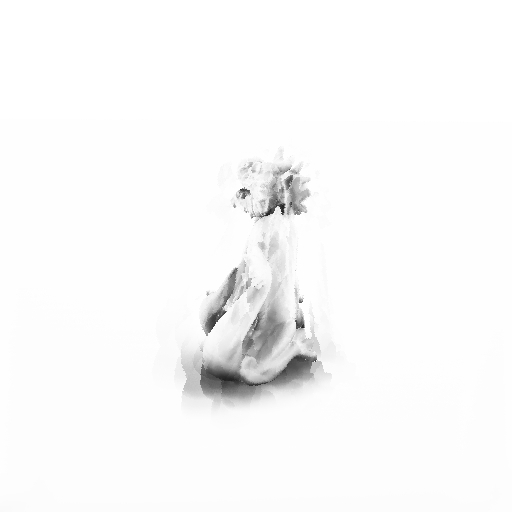
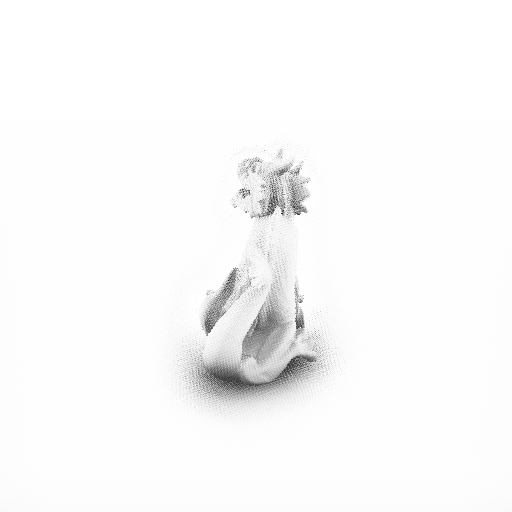
feat(labo): per-pixel rotated samples (retrained), bilateral blur, clay shading, AO resolution toggle, deep links, post-blur metrics

diff --git a/web/src/labo-ao.js b/web/src/labo-ao.js
@@ -70,13 +70,16 @@ void main() {
   if (P.a < 0.5) { gl_FragColor = vec4(1.0); return; }
   vec3 n = normalize(texelFetch(tNrm, ip, 0).xyz);
   float rad = uR * uFocal / max(dot(P.xyz - uEye, uFwd), 1e-3);
+  float ign = fract(52.9829189 * fract(0.06711056 * float(ip.x) + 0.00583715 * float(ip.y)));
+  float ca = cos(6.28318531 * ign), sa = sin(6.28318531 * ign);
 #ifdef NEURAL
   float f[${2 * K + 4}];
 #else
   float acc = 0.0;
 #endif
   for (int k = 0; k < ${K}; k++) {
-    vec2 o = PAT[k] * rad;
+    vec2 pk = PAT[k];
+    vec2 o = vec2(ca * pk.x - sa * pk.y, sa * pk.x + ca * pk.y) * rad;
     ivec2 sp = clamp(ip + ivec2(int(round(o.x)), -int(round(o.y))), ivec2(0), size - 1);  // numpy rows go down
     vec4 Q = texelFetch(tPos, sp, 0);
     bool valid = Q.a > 0.5;
@@ -128,23 +131,71 @@ export async function createAo({ canvas, net, cfg }) {
   scene.add(dragon, ground);
   const mPos = gmat("vP"), mNrm = gmat("normalize(vN)");
 
-  let rtPos, rtNrm, rtAo, aoScale = 0.5;
+  let rtPos, rtNrm, rtAo, rtBlurA, rtBlurB, aoScale = 0.5;
   const uniforms = { tPos: { value: null }, tNrm: { value: null }, uEye: { value: new THREE.Vector3() },
     uFwd: { value: new THREE.Vector3() }, uFocal: { value: 1 }, uR: { value: net.R } };
   const mats = { classic: aoMaterial(net, "classic", uniforms), neural: aoMaterial(net, "neural", uniforms) };
   const quad = new THREE.Mesh(new THREE.PlaneGeometry(2, 2));
   const quadScene = new THREE.Scene(); quadScene.add(quad);
-  const blit = new THREE.ShaderMaterial({ uniforms: { t: { value: null } },
-    vertexShader: "varying vec2 vUv; void main() { vUv = uv; gl_Position = vec4(position.xy, 0.0, 1.0); }",
-    fragmentShader: "precision highp float; uniform sampler2D t; varying vec2 vUv; void main() { gl_FragColor = texture2D(t, vUv); }" });
   const ortho = new THREE.Camera();
+
+  // depth- and normal-aware separable blur: removes the rotation noise, keeps edges
+  const blurMat = new THREE.ShaderMaterial({
+    uniforms: { tAo: { value: null }, tPos: uniforms.tPos, tNrm: uniforms.tNrm, uDir: { value: new THREE.Vector2(1, 0) }, uR: uniforms.uR },
+    vertexShader: "void main() { gl_Position = vec4(position.xy, 0.0, 1.0); }",
+    fragmentShader: /* glsl */ `
+precision highp float;
+precision highp sampler2D;
+uniform sampler2D tAo, tPos, tNrm;
+uniform vec2 uDir;
+uniform float uR;
+void main() {
+  ivec2 size = textureSize(tPos, 0), ip = ivec2(gl_FragCoord.xy);
+  vec4 P = texelFetch(tPos, ip, 0);
+  if (P.a < 0.5) { gl_FragColor = vec4(1.0); return; }
+  vec3 n = texelFetch(tNrm, ip, 0).xyz;
+  float sum = 0.0, wsum = 0.0;
+  for (int i = -4; i <= 4; i++) {
+    ivec2 q = clamp(ip + ivec2(uDir) * i, ivec2(0), size - 1);
+    vec4 Q = texelFetch(tPos, q, 0);
+    if (Q.a < 0.5) continue;
+    vec3 m = texelFetch(tNrm, q, 0).xyz;
+    float dz = length(Q.xyz - P.xyz) / (0.25 * uR);
+    float w = exp(-float(i * i) / 8.0) * pow(max(dot(n, m), 0.0), 8.0) * exp(-dz * dz);
+    sum += texelFetch(tAo, q, 0).r * w; wsum += w;
+  }
+  gl_FragColor = vec4(vec3(sum / max(wsum, 1e-5)), 1.0);
+}`,
+  });
+
+  // final pass, full resolution: the scene itself, shaded as clay x AO (or AO alone)
+  const compMat = new THREE.ShaderMaterial({
+    uniforms: { tAo: { value: null }, uScreen: { value: new THREE.Vector2(1, 1) }, uApplied: { value: 1 } },
+    vertexShader: "varying vec3 vN; void main() { vN = normalize(mat3(modelMatrix) * normal); gl_Position = projectionMatrix * viewMatrix * modelMatrix * vec4(position, 1.0); }",
+    fragmentShader: /* glsl */ `
+precision highp float;
+uniform sampler2D tAo;
+uniform vec2 uScreen;
+uniform float uApplied;
+varying vec3 vN;
+void main() {
+  float ao = texture2D(tAo, gl_FragCoord.xy / uScreen).r;
+  vec3 n = normalize(vN);
+  float hemi = mix(0.45, 1.0, n.y * 0.5 + 0.5);
+  float key = max(dot(n, normalize(vec3(0.4, 0.8, 0.3))), 0.0);
+  vec3 clay = vec3(0.86, 0.84, 0.80) * (0.75 * hemi + 0.35 * key);
+  gl_FragColor = vec4(mix(vec3(ao), clay * ao, uApplied), 1.0);
+}`,
+  });
+  const gtTex = net.views.map((_, i) => new THREE.TextureLoader().load(`data/labo/ao/view${i}-gt.jpg`));
 
   let size = 0;
   function allocate() {
     const px = Math.max(64, Math.round(size * renderer.getPixelRatio() * aoScale));
-    for (const rt of [rtPos, rtNrm, rtAo]) rt?.dispose();
+    for (const rt of [rtPos, rtNrm, rtAo, rtBlurA, rtBlurB]) rt?.dispose();
     const mk = (type, filter) => new THREE.WebGLRenderTarget(px, px, { type, minFilter: filter, magFilter: filter, depthBuffer: type !== THREE.UnsignedByteType });
-    rtPos = mk(floatRT, THREE.NearestFilter); rtNrm = mk(floatRT, THREE.NearestFilter); rtAo = mk(THREE.UnsignedByteType, THREE.LinearFilter);
+    rtPos = mk(floatRT, THREE.NearestFilter); rtNrm = mk(floatRT, THREE.NearestFilter); rtAo = mk(THREE.UnsignedByteType, THREE.NearestFilter);
+    rtBlurA = mk(THREE.UnsignedByteType, THREE.NearestFilter); rtBlurB = mk(THREE.UnsignedByteType, THREE.LinearFilter);
     uniforms.tPos.value = rtPos.texture; uniforms.tNrm.value = rtNrm.texture;
     uniforms.uFocal.value = (px / 2) / Math.tan(THREE.MathUtils.degToRad(cfg.camera.fov_y) / 2);
   }
@@ -155,7 +206,7 @@ export async function createAo({ canvas, net, cfg }) {
     allocate();
   }
 
-  const state = { left: "classic", right: "neural", split: 0.5 };
+  const state = { left: "classic", right: "neural", split: 0.5, view: 0, applied: true };
   function render() {
     const fwd = target.clone().sub(camera.position).normalize();
     uniforms.uEye.value.copy(camera.position); uniforms.uFwd.value.copy(fwd);
@@ -173,10 +224,26 @@ export async function createAo({ canvas, net, cfg }) {
       renderer.render(quadScene, ortho);
     }
     rtAo.scissorTest = false;
+    quad.material = blurMat;
+    for (const [src, dst, dir] of [[rtAo, rtBlurA, [1, 0]], [rtBlurA, rtBlurB, [0, 1]]]) {
+      blurMat.uniforms.tAo.value = src.texture; blurMat.uniforms.uDir.value.set(...dir);
+      renderer.setRenderTarget(dst); renderer.render(quadScene, ortho);
+    }
     renderer.setRenderTarget(null);
     renderer.setClearColor(0xffffff, 1); renderer.clear();
-    blit.uniforms.t.value = rtAo.texture; quad.material = blit;
-    renderer.render(quadScene, ortho);
+    const pr = renderer.getPixelRatio(), cut = Math.round(state.split * size);
+    compMat.uniforms.uScreen.value.set(size * pr, size * pr);
+    compMat.uniforms.uApplied.value = state.applied ? 1 : 0;
+    scene.overrideMaterial = compMat;
+    renderer.setScissorTest(true);
+    for (const [side, x0, w] of [["left", 0, cut], ["right", cut, size - cut]]) {
+      if (w <= 0) continue;
+      compMat.uniforms.tAo.value = state[side] === "gt" ? gtTex.at(state.view) : rtBlurB.texture;
+      renderer.setScissor(x0, 0, w, size);
+      renderer.render(scene, camera);
+    }
+    renderer.setScissorTest(false);
+    scene.overrideMaterial = null;
   }
 
   let tween = null;

diff --git a/web/src/labo.js b/web/src/labo.js
@@ -7,8 +7,8 @@ const EFFECTS = {
     label: "Ambient occlusion", live: true,
     methods: { gt: "Ray tracing", classic: "SSAO classique", neural: "Réseau" },
     reference: "gt", left: "classic", right: "neural", view: 1,
-    errNote: "Erreur moyenne dans les zones d'ombre, par rapport au ray tracing, mesurée à cette vue de référence. Plus bas, c'est mieux.",
-    note: "SSAO classique et réseau tournent en temps réel (AO en demi-résolution). Le ray tracing est précalculé aux 4 vues de référence : le choisir cale la caméra dessus.",
+    errNote: "Erreur moyenne dans les zones d'ombre, par rapport au ray tracing, après le flou (comme à l'écran), à cette vue de référence. Plus bas, c'est mieux.",
+    note: "SSAO classique et réseau tournent en temps réel, avec le même flou bilatéral. Le ray tracing est précalculé aux 4 vues de référence : le choisir cale la caméra dessus.",
     story: "Le réseau voit exactement ce que voit un SSAO classique, le depth buffer et les normales autour du pixel, et apprend une AO calculée en ray tracing. Il fait presque deux fois moins d'erreur dans les zones d'ombre et a moins de halos. Mais à l'œil le gain reste modeste, et les deux ratent l'ombre de contact sous le dragon : en screen space, on ne voit pas ce qui est caché.",
   },
   glass: {
@@ -21,7 +21,7 @@ const EFFECTS = {
   },
 };
 
-const state = { effect: "ao", view: EFFECTS.ao.view, left: EFFECTS.ao.left, right: EFFECTS.ao.right, split: 0.5 };
+const state = { effect: "ao", view: EFFECTS.ao.view, left: EFFECTS.ao.left, right: EFFECTS.ao.right, split: 0.5, applied: true, aoScale: 0.5 };
 const data = {};
 let ao = null;
 
@@ -57,13 +57,15 @@ function render() {
   seg($("right"), methods, state.right, (k) => pickSide("right", k));
   const src = (k) => `data/labo/${state.effect}/view${state.view}-${k}.jpg`;
   for (const [side, img] of [["left", $("imgL")], ["right", $("imgR")]]) {
-    const show = !fx.live || state[side] === fx.reference;
-    img.hidden = !show;
-    if (show) img.src = src(state[side]);
+    img.hidden = fx.live;  // live AO draws everything, ray-traced reference included, in the canvas
+    if (!fx.live) img.src = src(state[side]);
   }
   $("aoCanvas").hidden = !fx.live;
+  $("aoOptions").hidden = !fx.live;
+  seg($("display"), [["1", "AO appliquée"], ["0", "AO seule"]], state.applied ? "1" : "0", (k) => { state.applied = k === "1"; render(); });
+  seg($("aores"), [["0.5", "demi"], ["1", "pleine"]], String(state.aoScale), (k) => { state.aoScale = +k; ao?.setAoScale(state.aoScale); render(); });
   if (ao) ao.stats.dom.hidden = !fx.live;
-  if (ao) Object.assign(ao.state, { left: state.left, right: state.right });
+  if (ao) Object.assign(ao.state, { left: state.left, right: state.right, view: state.view, applied: state.applied });
   $("tagL").textContent = fx.methods[state.left];
   $("tagR").textContent = fx.methods[state.right];
   const errs = d.views[state.view].errors;
@@ -112,9 +114,15 @@ try {
     for (const side of ["left", "right"]) if (state[side] === "gt") { state[side] = "neural"; changed = true; }
     if (changed) render();
   });
+  const q = new URLSearchParams(location.search);  // deep links: ?effect=ao&left=gt&right=neural&display=0
+  if (Object.hasOwn(EFFECTS, q.get("effect") ?? "")) Object.assign(state, { effect: q.get("effect"), view: EFFECTS[q.get("effect")].view,
+    left: EFFECTS[q.get("effect")].left, right: EFFECTS[q.get("effect")].right });
+  for (const side of ["left", "right"]) if (Object.hasOwn(EFFECTS[state.effect].methods, q.get(side) ?? "")) state[side] = q.get(side);
+  if (q.get("display") === "0") state.applied = false;
+  if (EFFECTS[state.effect].live) ao.setPose(state.view, false);
   placeSplit();
   render();
-  if (new URLSearchParams(location.search).has("aocheck")) {
+  if (q.has("aocheck")) {
     $("story").textContent = "AO CHECK en cours";
     const res = await ao.check().catch((e) => { $("story").textContent = "AO CHECK ERREUR " + e.message; throw e; });
     $("story").textContent = "AO CHECK " + res.map((r) => `vue ${r.view}: écart moyen ${(r.mae * 100).toFixed(2)} %, pixels > 10 % : ${(r.bad * 100).toFixed(2)} %`).join(" | ");

diff --git a/web/labo.html b/web/labo.html
@@ -54,6 +54,10 @@
       <div class="lbl">Vue</div>
       <div class="seg" id="views"></div>
     </div>
+    <div id="aoOptions">
+      <div class="lbl">Affichage · résolution de l'AO</div>
+      <div class="row"><div class="seg" id="display"></div><div class="seg" id="aores"></div></div>
+    </div>
     <div>
       <div class="lbl">Gauche · droite du rideau</div>
       <div class="row"><span class="side-lbl">Gauche</span><div class="seg" id="left"></div></div>

diff --git a/spikes/ao/ao_spike.py b/spikes/ao/ao_spike.py
@@ -70,8 +70,14 @@ def ss_features(pos, nrm, hit, eye, fwd, res):
     p = pos[ys, xs]; n = nrm[ys, xs] / np.linalg.norm(nrm[ys, xs], axis=1, keepdims=True)
     z = (p - eye) @ fwd
     rad_px = R * f / np.maximum(z, 1e-3)
+    # per-pixel rotation of the pattern by interleaved gradient noise (same formula as the shader,
+    # on GL pixel coordinates: rows counted from the bottom). Breaks the banding a fixed pattern
+    # leaves, the blur then removes the noise.
+    ign = np.modf(52.9829189 * np.modf(0.06711056 * xs + 0.00583715 * (H - 1 - ys))[0])[0]
+    c, s = np.cos(2 * np.pi * ign), np.sin(2 * np.pi * ign)
     feats = []
-    for ox, oy in PATTERN:
+    for px_, py_ in PATTERN:
+        ox, oy = c * px_ - s * py_, s * px_ + c * py_
         sx = np.clip(np.round(xs + ox * rad_px), 0, W - 1).astype(int)
         sy = np.clip(np.round(ys + oy * rad_px), 0, H - 1).astype(int)
         valid = hit[sy, sx]
@@ -80,6 +86,22 @@ def ss_features(pos, nrm, hit, eye, fwd, res):
         nd = np.where(valid, (n * d).sum(1) / R, 0.0)
         feats += [np.clip(nd, -4, 4), np.where(valid, np.clip(dist / R, 0, 4), 4.0)]
     return np.concatenate([np.stack(feats, 1), n], 1).astype(np.float32), ys, xs
+
+
+def bilateral(img, pos, nrm, hit):
+    """Mirror of the page's separable blur: 9 taps, gaussian x normal x position weights."""
+    H, W = hit.shape
+    n = nrm / np.maximum(np.linalg.norm(nrm, axis=-1, keepdims=True), 1e-8)
+    Y, X = np.mgrid[0:H, 0:W]
+    for dx, dy in ((1, 0), (0, 1)):
+        acc, wsum = np.zeros((H, W)), np.zeros((H, W))
+        for i in range(-4, 5):
+            yy, xx = np.clip(Y + i * dy, 0, H - 1), np.clip(X + i * dx, 0, W - 1)
+            dz = np.linalg.norm(pos[yy, xx] - pos, axis=-1) / (0.25 * R)
+            w = (np.exp(-i * i / 8) * np.maximum((n * n[yy, xx]).sum(-1), 0) ** 8 * np.exp(-dz * dz) * hit[yy, xx])
+            acc += img[yy, xx] * w; wsum += w
+        img = np.where(hit, acc / np.maximum(wsum, 1e-5), 1.0)
+    return img
 
 
 def make_view(i, rng):
@@ -98,7 +120,7 @@ def dataset(n_views, seed, res):
         ao = gt_ao(sc, pos, nrm, hit, rng)
         x, ys, xs = ss_features(pos, nrm, hit, eye, fwd, res)
         X.append(x); Y.append(ao[ys, xs])
-        imgs.append((hit, ys, xs, ao, v))
+        imgs.append((hit, ys, xs, ao, v, pos, nrm))
     return np.concatenate(X), np.concatenate(Y), imgs
 
 
@@ -146,7 +168,7 @@ def main():
     print(f"classic params s={classic.s.item():.3f} bias={classic.bias.item():.3f}")
     # comparison sheet: rows = test views, columns = ground truth | classic | neural
     rows, off = [], 0
-    for hit, ys, xs, ao, _ in test_imgs[:3]:
+    for hit, ys, xs, ao, *_ in test_imgs[:3]:
         n = len(ys)
         tiles = []
         for vals in (ao[ys, xs], pc[off:off + n], pn[off:off + n]):
@@ -161,17 +183,19 @@ def main():
     import json
     LABO.mkdir(parents=True, exist_ok=True)
     views, off = [], 0
-    for i, (hit, ys, xs, ao, _) in enumerate(test_imgs):
+    for i, (hit, ys, xs, ao, _, pos, nrm) in enumerate(test_imgs):
         n = len(ys)
-        gt, err = ao[ys, xs], {}
+        gt, err, raw = ao[ys, xs], {}, {}
         occ = gt < 0.9
         for key, vals in (("gt", gt), ("classic", pc[off:off + n]), ("neural", pn[off:off + n])):
             img = np.ones(hit.shape, np.float32)
             img[ys, xs] = vals
             g8 = (np.clip(img, 0, 1) * 255).astype(np.uint8)
             mi.Bitmap(np.ascontiguousarray(np.repeat(g8[..., None], 3, 2))).write(str(LABO / f"view{i}-{key}.jpg"))
-            err[key] = round(float(np.abs(vals - gt)[occ].mean()), 4)
-        views.append(dict(errors=err))
+            raw[key] = round(float(np.abs(vals - gt)[occ].mean()), 4)
+            if key != "gt":  # what the page shows: the same bilateral blur as the shader
+                err[key] = round(float(np.abs(bilateral(img, pos, nrm, hit)[ys, xs] - gt)[occ].mean()), 4)
+        views.append(dict(errors=err, errors_raw=raw))
         off += n
     (LABO.parent / "ao.json").write_text(json.dumps(dict(views=views, mae_occluded=dict(
         classic=round(float(np.abs(pc - Yte)[occluded].mean()), 4), neural=round(float(np.abs(pn - Yte)[occluded].mean()), 4))), indent=1))
@@ -181,7 +205,7 @@ def main():
         K=K, R=R, pattern=PATTERN.tolist(),
         layers=[dict(W=l.weight.detach().numpy().tolist(), b=l.bias.detach().numpy().tolist()) for l in lin],
         classic=dict(s=classic.s.item(), bias=classic.bias.item()),
-        views=[dict(az_deg=float(v["az_deg"]), el_deg=float(v["el_deg"]), radius=float(v["radius"])) for *_, v in test_imgs])))
+        views=[dict(az_deg=float(v["az_deg"]), el_deg=float(v["el_deg"]), radius=float(v["radius"])) for _, _, _, _, v, *_ in test_imgs])))
     print("labo export ->", LABO)
 
 
